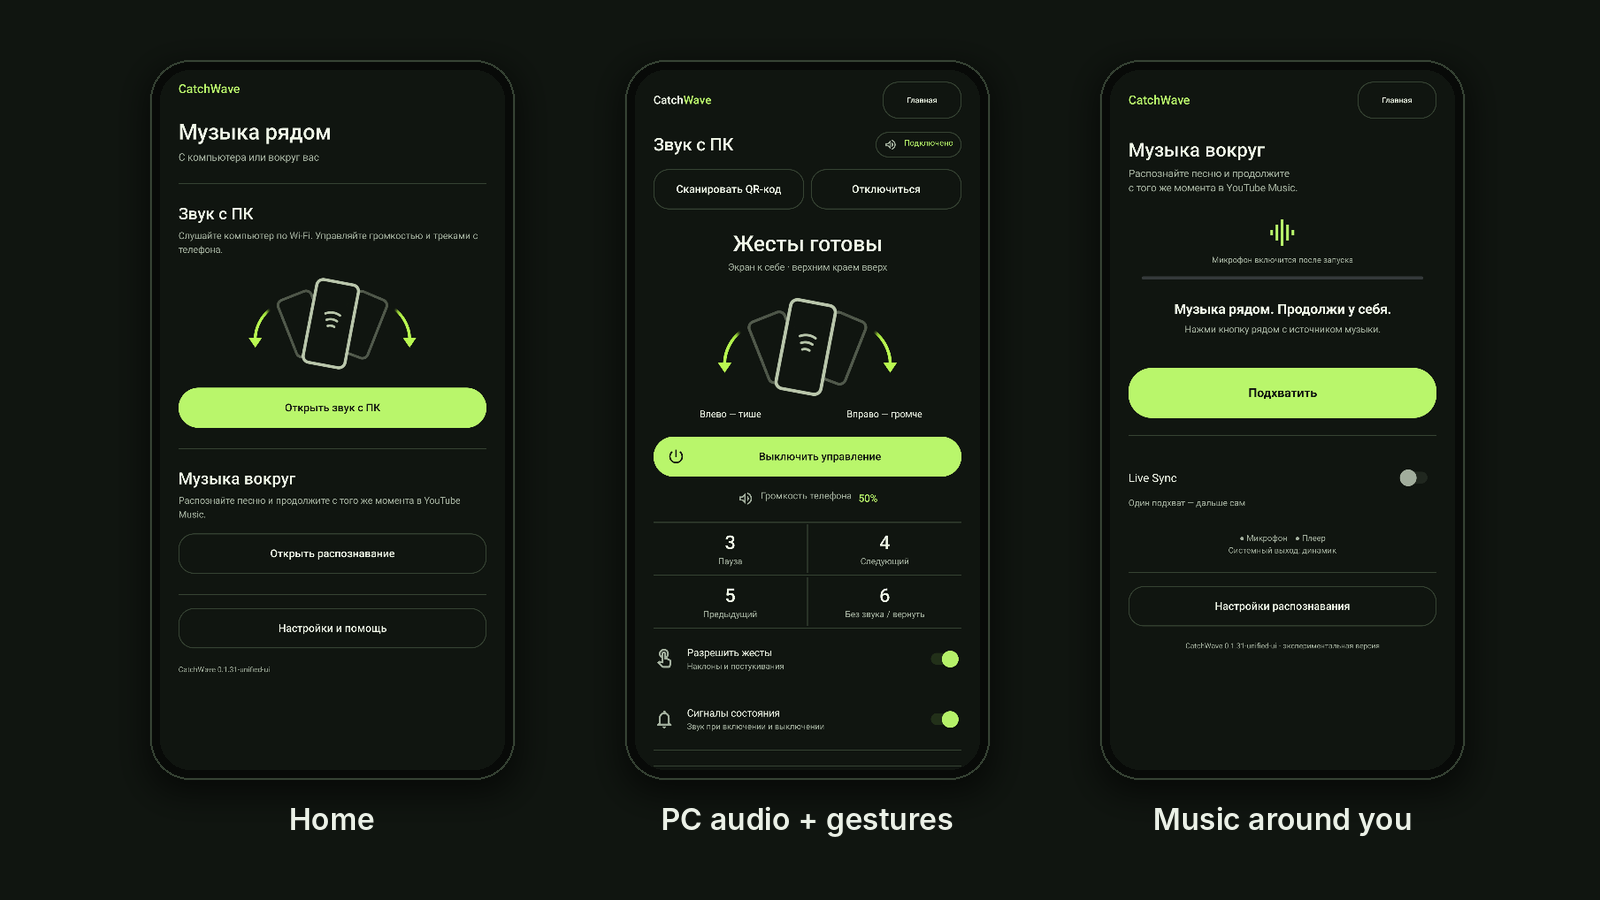
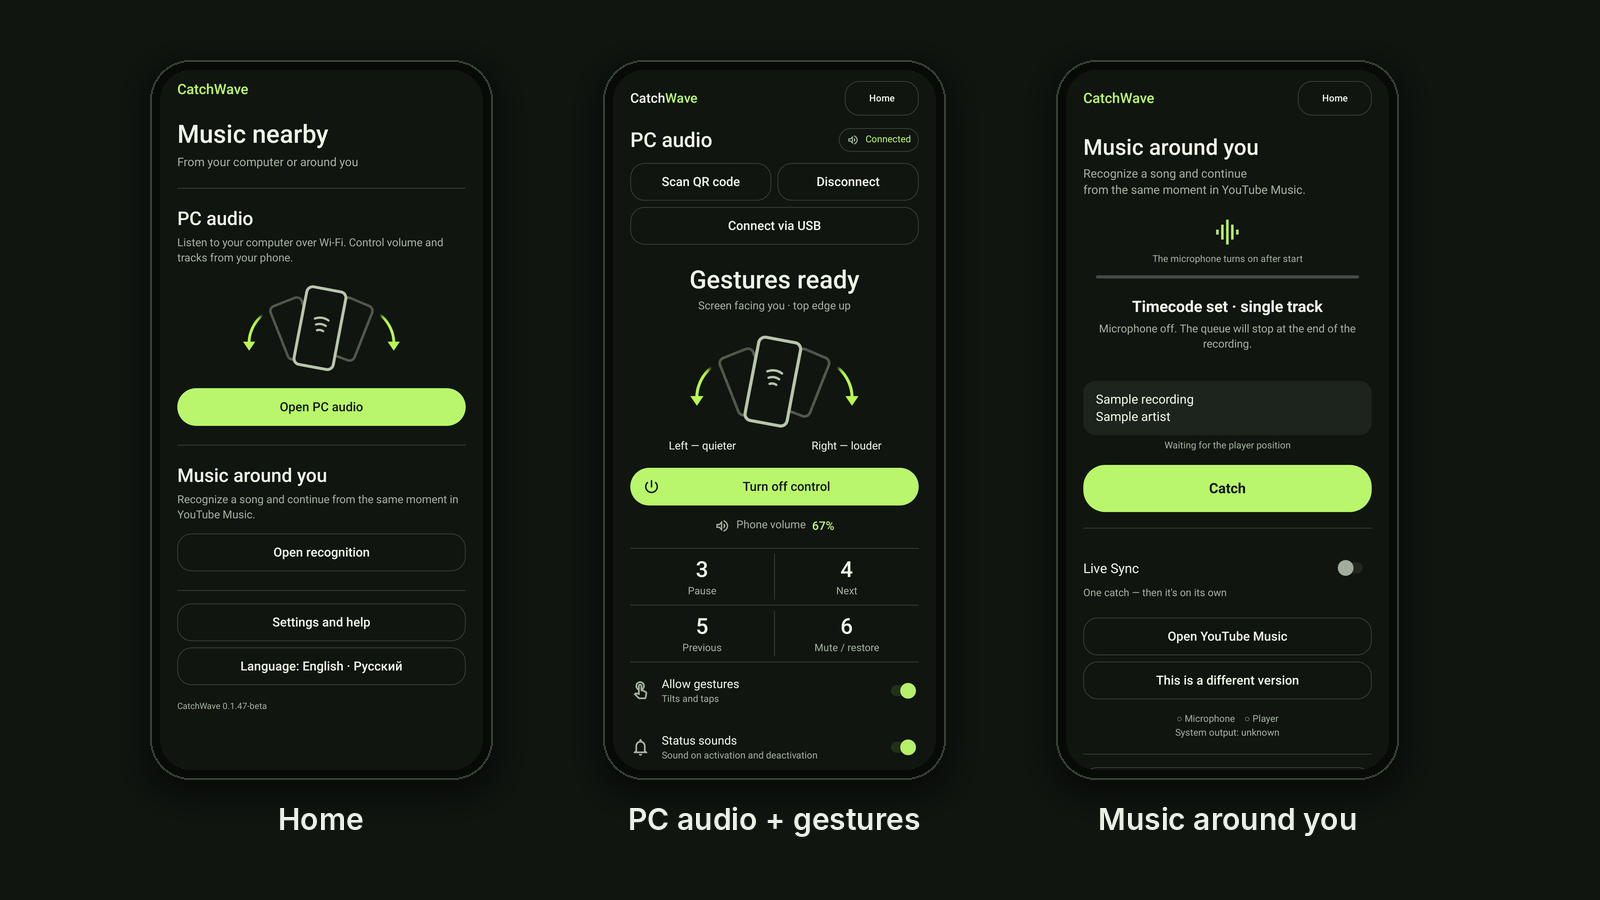
docs: refresh screenshots
Replace the README Host and Android captures with the current English UI. The Host status title is the full line from the Windows preview render.

diff --git a/tools/readme-media.py b/tools/readme-media.py
@@ -161,7 +161,7 @@ def demo():
         title("Your PC's sound on your phone", "Wi-Fi or USB · gesture remote · song recognition", ["Free", "Open source", "No account"]),
         scene("1 · Start CatchWave Host on Windows", "It shows a private QR code. Nothing is installed or left running in the background.",
               [("window", "windows-waiting-fixture.png", 700, (130, 30))]),
-        scene("2 · Open «Звук с ПК» and scan the QR", "One scan pins the PC's certificate: the stream is encrypted end to end.",
+        scene("2 · Open PC audio and scan the QR", "One scan pins the PC's certificate: the stream is encrypted end to end.",
               [("phone", "home.png", 420, (90, 16)), ("window", "windows-waiting-fixture.png", 520, (380, 60))]),
         scene("3 · Music plays on the phone", "Any Windows output, converted automatically to 48 kHz stereo.",
               [("window", "windows-ready.png", 620, (40, 50)), ("phone", "lan-ready.png", 420, (690, 16))]),

diff --git a/README.md b/README.md
@@ -70,7 +70,7 @@ Commands require a separate approval of the phone's key on the PC. A QR code gra
   <img src="docs/media/gallery-host.png" alt="Windows Host: waiting for pairing with a private QR, and streaming with gestures ready" width="100%">
 </p>
 
-<sub>These pictures are the Russian 0.1.47 captures. They already show the audio-source picker and the USB button. The downloadable v0.1.47-beta package matches them: its windows are Russian. Current source starts in English, and Russian is an in-app choice (immediate on the phone, next launch in the Host). The QR is an inert public fixture, not a live pairing code.</sub>
+<sub>These pictures are the current English interface, including the Host status title at full height. The downloadable v0.1.47-beta package is still the older Russian build, so its windows do not match. Russian remains an in-app choice (immediate on the phone, next Host launch). The QR is an inert public fixture. The recognition screen shows the sample title “Sample recording”.</sub>
 
 ## Get started in 3 minutes
 
